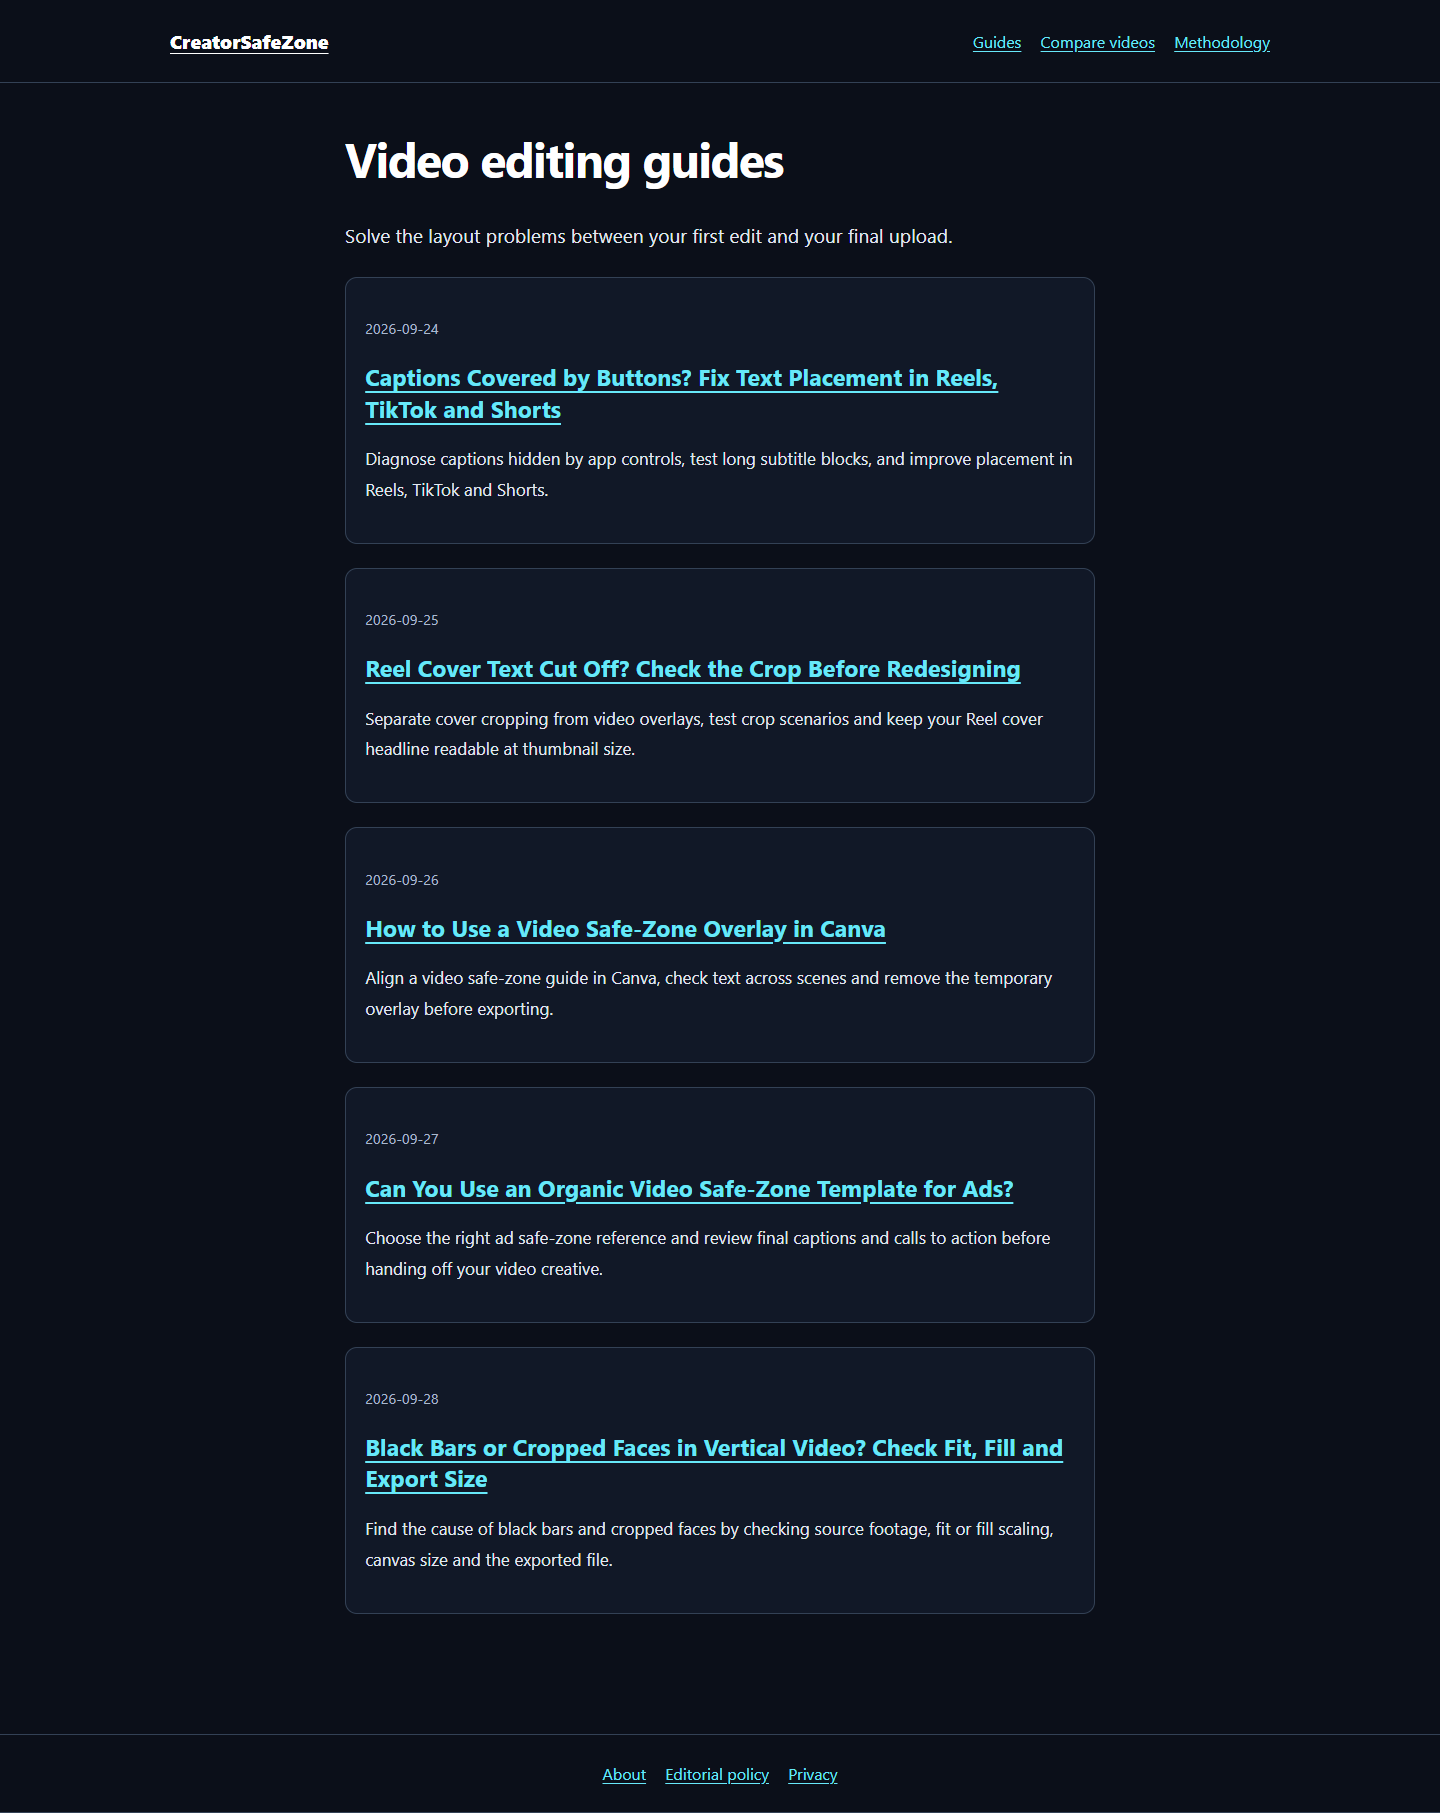
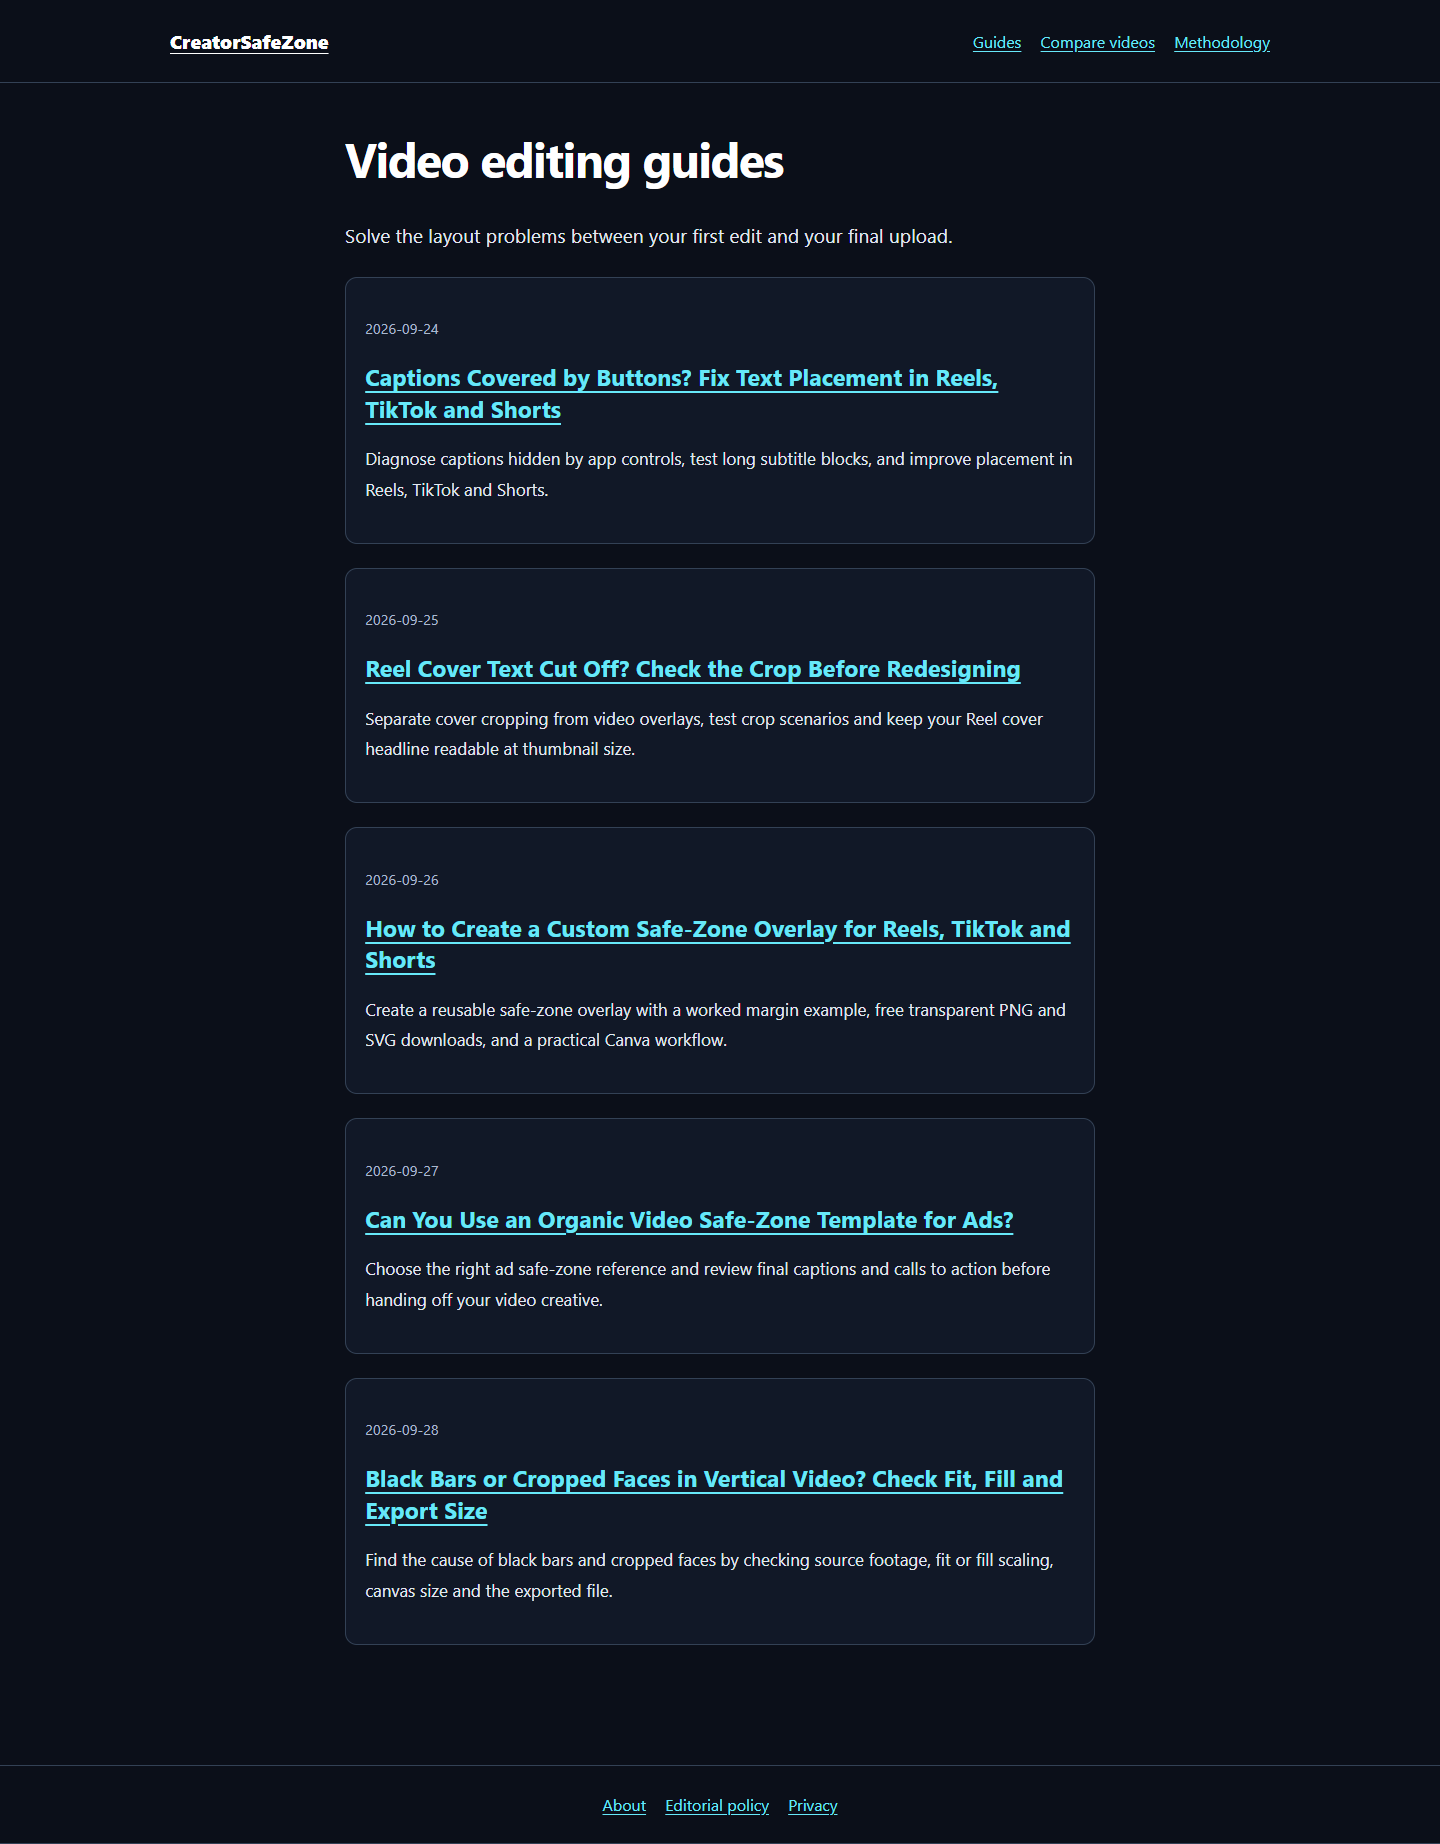
Expand scheduled Canva guide with custom overlay example and downloads

diff --git a/content/drafts/03-canva-overlay.md b/content/drafts/03-canva-overlay.md
@@ -1,14 +1,41 @@
-# How to Use a Video Safe-Zone Overlay in Canva
+# How to Create a Custom Safe-Zone Overlay for Reels, TikTok and Shorts
 
 A safe-zone overlay is a temporary reference layer that helps you position text and logos while designing. It should match your video canvas, sit above your content during review and be removed before the final export.
 
 Canva's ordinary margin guides are not a map of TikTok, Reels or Shorts controls. Canva describes margins and bleed primarily in its layout and print guidance, and documents rulers and guides separately. [Canva's guide to margins and rulers](https://www.canva.com/help/margins-bleed-crop-marks/).
 
-## Start with a matching canvas
+## Download the worked-example overlay
+
+[Download the transparent PNG overlay](https://creatorsafezone.com/downloads/custom-safe-zone-example.png) or [open the editable SVG source](https://creatorsafezone.com/downloads/custom-safe-zone-example.svg). Both use a 1080 × 1920 canvas with illustrative margins: top 180, right 180, bottom 360 and left 120 pixels. The clear working area is 780 × 1380 pixels, starting at X:120, Y:180.
+
+These are teaching values, not measured or official platform boundaries. Red bands mark the example exclusions; the middle is transparent so your video can show through. Choose margins for your actual destination and preview. You may reuse and modify these original CreatorSafeZone guide files for personal or commercial editing.
+
+## Choose the canvas and planning margins
 
 Check the width and height of the design before importing a guide. A 1080 × 1920 guide has a 9:16 aspect ratio. A 720 × 1280 canvas has the same ratio, so uniform scaling can preserve the guide's proportions. A square canvas does not: stretching the guide to fit would change the relationship between its margins and the picture.
 
 Use the guide for the actual delivery frame. If you are also creating a square or landscape version, treat that as another layout to review rather than stretching the vertical layout into shape.
+
+Write down the four margins before drawing. For any canvas, working width equals canvas width minus left and right margins; working height equals canvas height minus top and bottom margins. For our example: 1080 − 120 − 180 = 780, and 1920 − 180 − 360 = 1380. If either result is zero or negative, reduce the margins or choose another canvas.
+
+For ads, start with the reference for that specific ad format. For organic video, compare against the destination app's preview and label your template as a planning reference. Do not combine crop boundaries and interface coverage without explaining which each band represents.
+
+## Create the overlay in Canva
+
+Create a blank 1080 × 1920 design. Add four rectangles as guide bands, using these example positions measured from the top-left corner:
+
+- Top: X:0, Y:0, width 1080, height 180.
+- Bottom: X:0, Y:1560, width 1080, height 360.
+- Left: X:0, Y:180, width 120, height 1380.
+- Right: X:900, Y:180, width 180, height 1380.
+
+The side bands stop at the top and bottom bands so their corners do not stack and become darker. Use a visible red fill with partial transparency. Leave the center empty; do not place a white rectangle over it. Put any labels inside the excluded bands so they do not obstruct the content you are checking.
+
+Use your editor's available size and position controls to align the shapes. Canva documents desktop rulers and guides; availability and menu placement can vary. If precise positioning is difficult on your device, import our ready-made PNG instead of estimating the rectangle sizes by eye.
+
+Save an editable copy, then choose PNG and the transparent-background export option if your Canva plan offers it. Canva lists transparent design downloads as a plan-dependent feature; the ready-made PNG above avoids needing that export feature just to obtain this example. [Canva transparent-image information](https://www.canva.com/pro/transparent-images/).
+
+Check the downloaded image over a colored background. The middle should reveal the color underneath. A white middle means the export contains an opaque background; a JPG cannot preserve this transparency. Do not use a screenshot as a substitute for a transparent PNG.
 
 ## Add the guide as a temporary layer
 
@@ -38,5 +65,11 @@ Load the exported file back into the checker. This confirms you are reviewing th
 - **The text clears the overlay but is unreadable:** review size, contrast, line breaks and on-screen duration.
 - **The export contains the overlay:** remove the reference layer from the publishing copy and export again.
 - **The app still covers a label:** revise the planning boundaries using the actual preview, then adjust the design.
+
+## Optional: adapt the SVG in an HTML page
+
+For a code-based workflow, use the downloadable SVG as an image over a video inside a shared 9:16 container. Give the image and video the same displayed bounds; keep the overlay from receiving pointer input so playback remains usable. Resizing only the video or using a different crop mode will misalign the guide.
+
+The SVG source lists the rectangle coordinates from the worked example, so a developer can edit those numbers for another scenario. Embedding the SVG in HTML displays the guide; it does not automatically bake it into a video or create a Canva template. Use the PNG for the simplest Canva import, and remove all guide layers from the final creative.
 
 For the next review step, follow the [comparison-page tutorial](https://creatorsafezone.com/check-all-platforms#comparison-tutorial).

diff --git a/docs/SUPPORTING-GUIDES-PLAN.md b/docs/SUPPORTING-GUIDES-PLAN.md
@@ -59,3 +59,9 @@ Sources accessed September 23, 2026. Cover arithmetic is derived from stated hyp
 User clarified that publication belongs on Cloudflare, with one post daily even while offline and a reserve of 3–5 ready posts. Five audited articles are queued for September 24–28, 2026 at 10:00 Asia/Karachi (05:00 UTC) in the order above. This is a consistent editorial time, not a claimed ranking advantage.
 
 Server-side timed availability controls article URLs, /guides and the sitemap. All internal article links target already-live tools, avoiding unpublished sibling links. See docs/SCHEDULED-GUIDES.md for release behavior, audits and the local queue-replenishment automation's availability limits.
+
+## Approved expansion — September 24, 2026
+
+After targeted SERP validation, the user approved expanding the September 26 Canva article to “How to Create a Custom Safe-Zone Overlay for Reels, TikTok and Shorts.” Keep slug canva-video-safe-zone-overlay and the existing release timestamp. Added original transparent PNG/SVG teaching assets, exact custom rectangle geometry, Canva creation/import/removal steps, plan-dependent transparency guidance, and an optional HTML/SVG section. No separate overlapping post or measured keyword-volume claim.
+
+Sources checked: https://www.canva.com/help/margins-bleed-crop-marks/ and https://www.canva.com/pro/transparent-images/. The numerical example is explicitly illustrative, not an official platform preset. Browser checks confirm generated PNG dimensions 1080x1920, center alpha 0, translucent bands, and article layout at four widths. 46 tests and structural validation pass; the six previously disclosed editorial advisories remain. Actual Canva account interaction was not tested.
